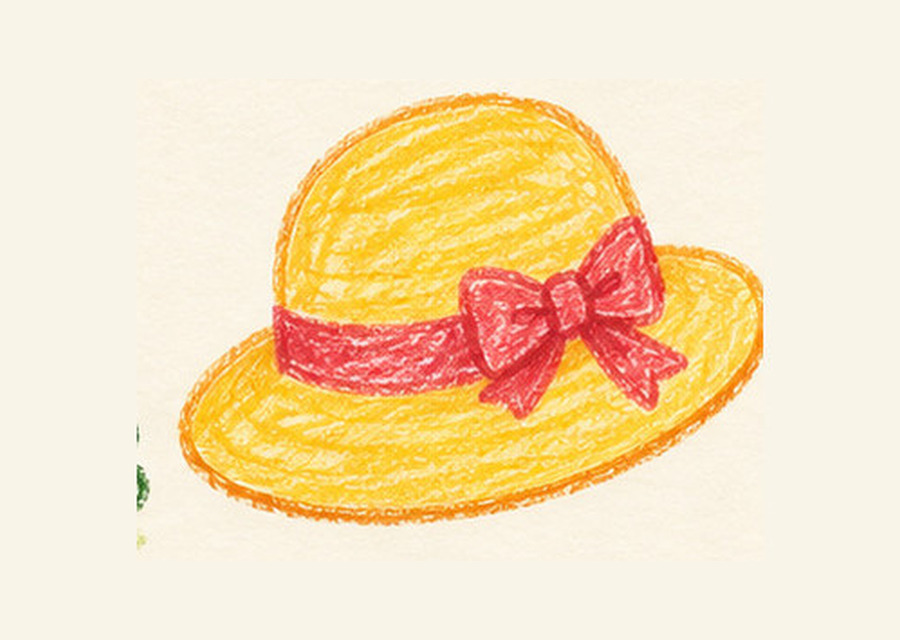
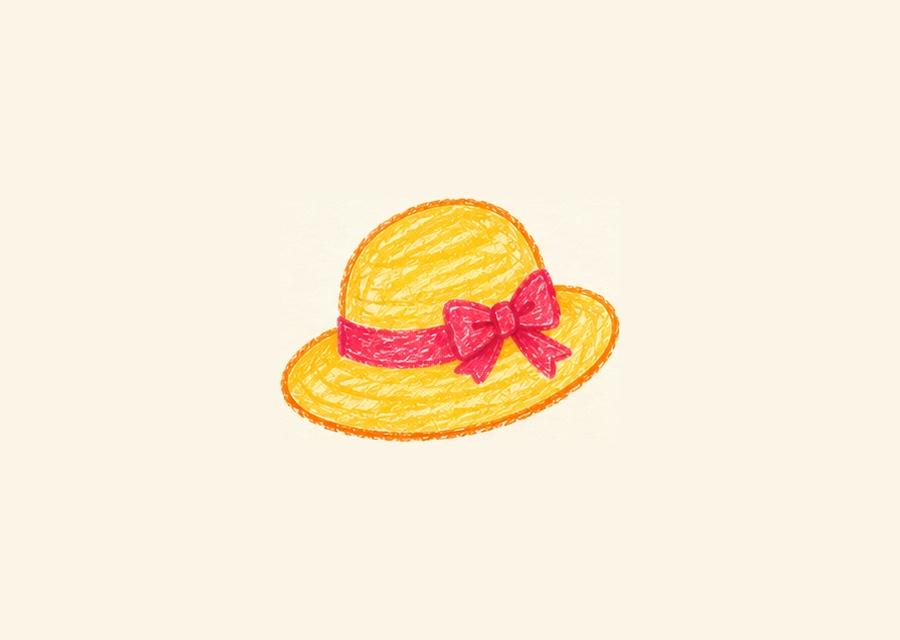
Add files via upload

Changed region(s): [[0.1244, 0.125, 0.8711, 0.8438]]

diff --git a/README.md b/README.md
@@ -1,26 +1,20 @@
-# CHAC V62.8｜字卡與畫面檢查修正版
+# CHAC V62.9 H–J 蠟筆重繪更新包
 
-從 V62.6 更新，保留 A–J 共 54 個單字、教師錄音、五種遊戲與瀏覽器學習紀錄。
+這一包已將 H、I、J 的 16 張字母圖卡重新由原始蠟筆總圖仔細裁切並置入系統的 `assets/card-art/`。
 
-## 修正
-- 所有 54 張 `assets/card-art/` 圖片重整成 900×640、四周留足安全邊距，僅保留蠟筆圖案，不把中英文放入圖片。
-- 切換字母時立即清掉舊字卡，顯示當前字母載入狀態；新圖片預先載入後才顯示卡片；使用切換序號防止快速點擊亂序。
-- 不使用 smooth scroll 掠過舊畫面；初始進站已設定首頁模式，減少舊介面先出現的情況。
-- 專注模式切換圖片時先隱藏上一張，完成載入後顯示，避免舊圖殘影。
-- 圖片統一 `object-fit:contain`，不裁切；尺寸和留白兼容桌機、手機及平板。
-- 更新 CSS/JS 快取參數與 PWA service worker 版本至 627。
+## 已更新單字
+- H：house, hat, hair, horse, hand
+- I：insect, ink, ill, inch, invitation
+- J：jacket, jam, jelly, jug, jar, jungle
 
-## GitHub 使用方式
-已完整安裝 V62.6 時：解壓 `CHAC_V62.7_GitHub_修正更新包.zip`，把所有檔案覆蓋到 GitHub 儲存庫的同一相對路徑，確認 Pages 部署完成後重新開啟頁面。
+## 說明
+- 每張圖都從原始總圖獨立裁切，不使用平均切格。
+- 已避免切到旁邊圖案的邊緣。
+- 已保留足夠安全留白，不會把自己的圖裁掉。
+- 這次只更新 H–J，A–G 可之後再依同方式處理。
 
-未安裝 V62.6 的使用者請改用四包完整安裝檔，先解壓合併於網站根目錄；切勿直接把壓縮檔作為網站內容上傳。
-
-## 驗收範圍
-已做圖片像素安全邊距、圖片數量與檔案完整性檢查，瀏覽器模擬驗收結果另外列於檢測報告。實際舊版 Safari、GitHub Pages 遠端快取仍需於使用端確認。
-
-
-## V62.8 實測調整
-- 十個字母、54 張插圖、五種遊戲與44份老師片段完成 Chromium 測試。
-- 修復 320px 窄螢幕在捲動字卡時，頂部導覽列覆蓋圖片的問題。
-- 將桌機／手機頂部導覽底色改為不透明，降低捲動時文字穿透的觀感。
-- 未更動教材、單字、老師音檔或學習進度儲存結構。
+## 安裝方式
+若你目前已有系統版本：
+1. 解壓本 ZIP。
+2. 將 `assets/card-art/` 內同名檔案覆蓋到 GitHub 儲存庫相同路徑。
+3. 重新部署後重新整理頁面。
